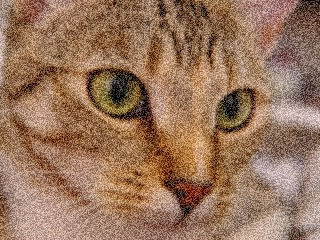
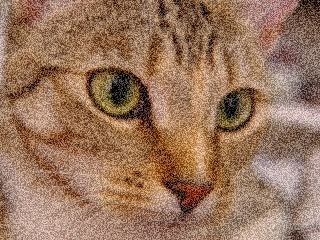
fix(shader): independent grain per frame
The noise hash added the raw frame number to the row coordinate, so each frame's grain was the previous frame's pattern shifted down 7 rows (grain visibly falling). The seed is now hashed first. tools/golden/test_noise.py cross-correlates consecutive frames over all 2D shifts: 0.95 before, 0.035 after; it runs in CI. Golden images refreshed.

diff --git a/tools/golden/test_noise.py b/tools/golden/test_noise.py
@@ -1,0 +1,49 @@
+#!/usr/bin/env python3
+"""Regression test: grain must be temporally independent (no pattern sliding between frames).
+
+Renders a flat grey frame with heavy grain for consecutive frame indices and cross-correlates the noise of
+frames that are 1 and 2 apart over ALL 2D shifts. White noise that is re-drawn every frame shows no
+correlation peak anywhere; a pattern that translates (the old bug: 7 rows per frame) shows a peak near 1.0.
+"""
+import json
+import pathlib
+import sys
+
+import numpy as np
+from PIL import Image
+
+sys.path.insert(0, str(pathlib.Path(__file__).parent))
+import render_golden as rg  # noqa: E402
+
+MAX_PEAK = 0.15
+
+
+def peak_correlation(a, b):
+    a = a - a.mean()
+    b = b - b.mean()
+    corr = np.fft.ifft2(np.fft.fft2(a) * np.conj(np.fft.fft2(b))).real
+    corr /= np.sqrt((a * a).sum() * (b * b).sum())
+    iy, ix = np.unravel_index(np.argmax(np.abs(corr)), corr.shape)
+    return float(abs(corr[iy, ix])), (int(iy), int(ix))
+
+
+def main():
+    pipe = rg.Pipeline()
+    look = {"schema": 1, "id": "noise-test", "name": "n", "virtualResolution": {"w": 128, "h": 128},
+            "upscale": "nearest", "exportScale": 1, "overlay": {"style": "none"},
+            "params": {"digital.grain": 0.8}, "macros": []}
+    grey = Image.new("RGB", (128, 128), (128, 128, 128))
+    frames = [np.asarray(pipe.render_look(look, grey, frames=k), dtype=np.float32)[..., 1] for k in range(2, 10)]
+    worst = 0.0
+    for gap in (1, 2):
+        for i in range(len(frames) - gap):
+            peak, where = peak_correlation(frames[i], frames[i + gap])
+            worst = max(worst, peak)
+            if peak > MAX_PEAK:
+                print(f"FAIL: frames {i + 1} and {i + 1 + gap} correlate {peak:.2f} at shift (dy={where[0]}, dx={where[1]})")
+    print(f"worst correlation over all shifts: {worst:.3f} (limit {MAX_PEAK})")
+    sys.exit(1 if worst > MAX_PEAK else 0)
+
+
+if __name__ == "__main__":
+    main()
